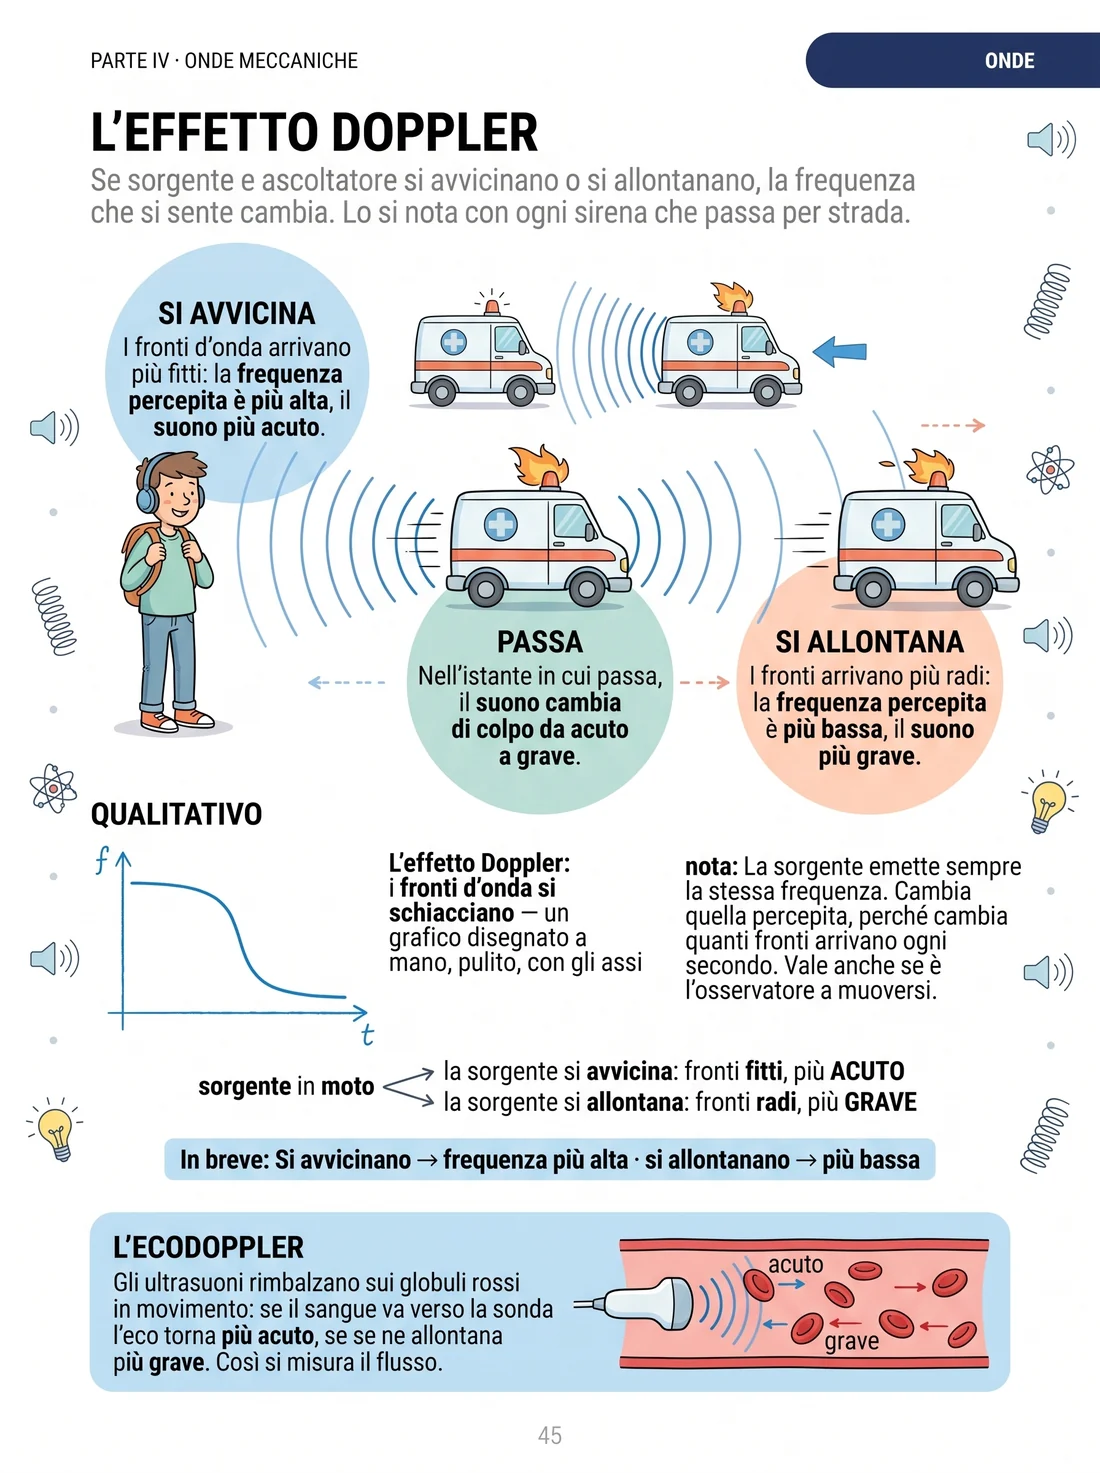
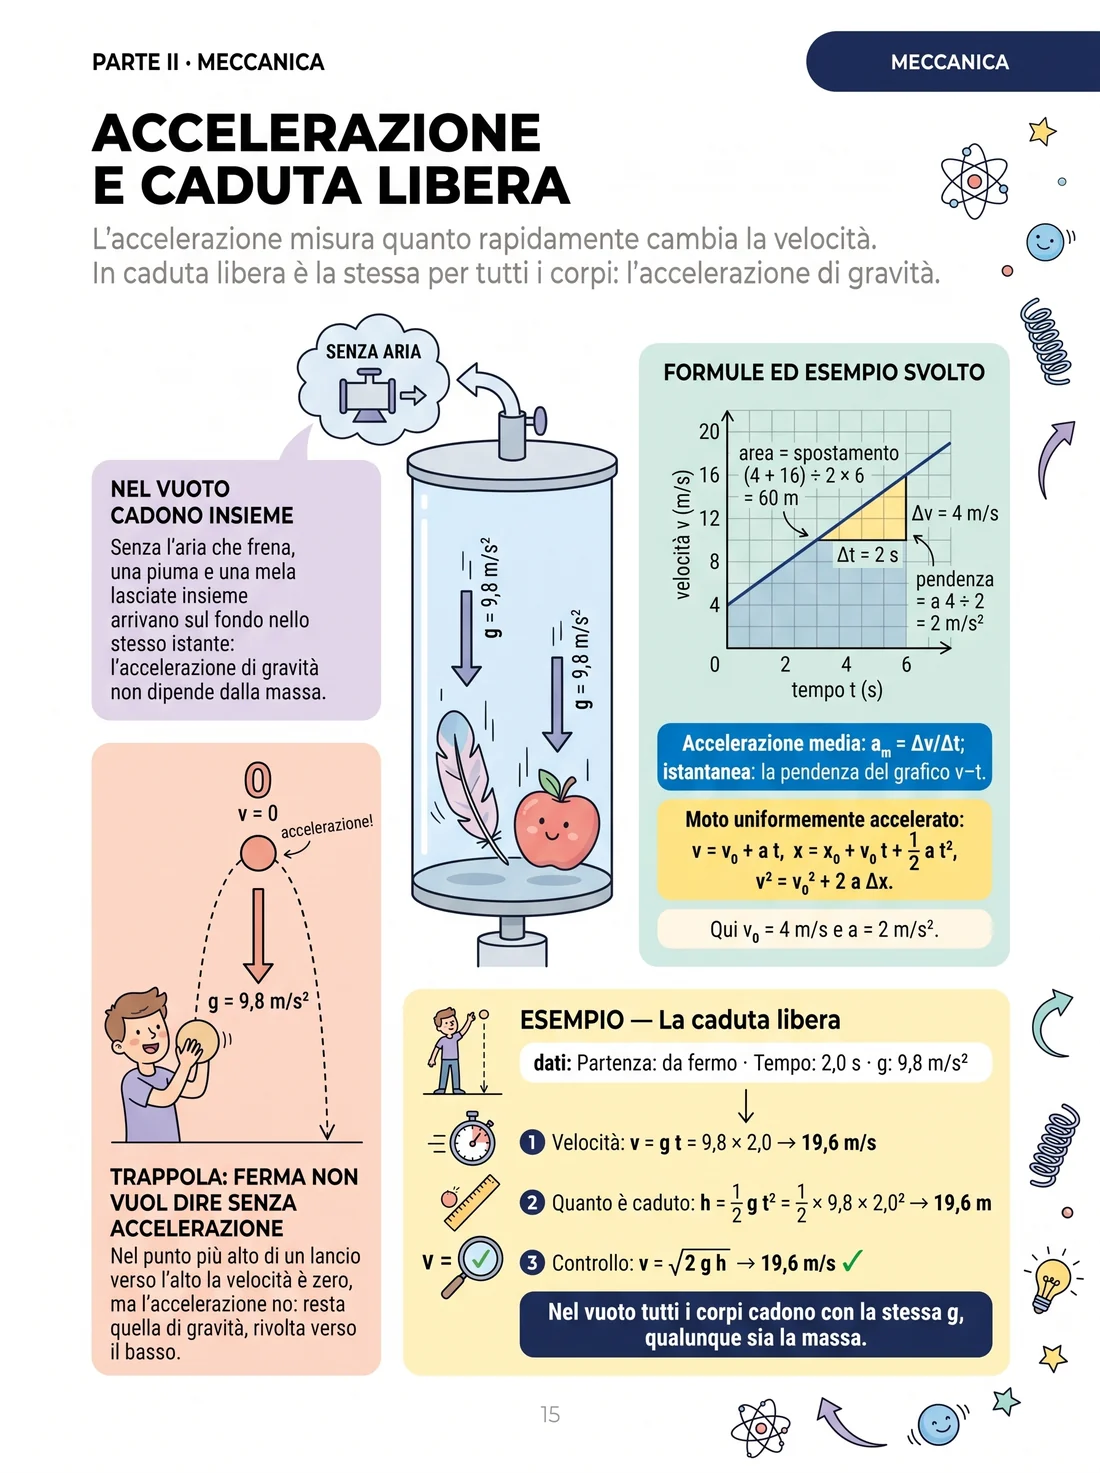
fisica: carosello con caduta libera in apertura al posto del primo principio

diff --git a/fisica.html b/fisica.html
@@ -2181,21 +2181,21 @@
         <button type="button" class="carousel-nav" data-dir="next" data-target="amostras-scroll" aria-label="Anteprima successiva"><svg viewBox="0 0 24 24" fill="none" stroke="currentColor" stroke-width="2.4" stroke-linecap="round" stroke-linejoin="round" aria-hidden="true"><polyline points="9 18 15 12 9 6"></polyline></svg></button>
         <div class="testimonials-scroll" id="amostras-scroll" role="list" data-no-autoplay>
           <article class="testimonial-item amostra-item" role="listitem">
-            <button type="button" class="amostra-btn" data-galleria="fisica" data-galleria-pagina="0" aria-label="Ingrandisci: L'effetto Doppler">
-              <img src="https://czocbnyoenjbpxmcqobn.supabase.co/storage/v1/object/public/algoritmia-img/studiofacile/anteprime/fisica_libro_01.webp?v=ad42e96b" alt="L'effetto Doppler" width="1100" height="1473" loading="lazy" decoding="async">
-              <span class="amostra-cap">L'effetto Doppler</span>
+            <button type="button" class="amostra-btn" data-galleria="fisica" data-galleria-pagina="0" aria-label="Ingrandisci: Accelerazione e caduta libera">
+              <img src="https://czocbnyoenjbpxmcqobn.supabase.co/storage/v1/object/public/algoritmia-img/studiofacile/anteprime/fisica_libro_01.webp?v=82457a60" alt="Accelerazione e caduta libera" width="1100" height="1473" loading="lazy" decoding="async">
+              <span class="amostra-cap">Accelerazione e caduta libera</span>
             </button>
           </article>
           <article class="testimonial-item amostra-item" role="listitem">
-            <button type="button" class="amostra-btn" data-galleria="fisica" data-galleria-pagina="1" aria-label="Ingrandisci: Il primo principio della termodinamica">
-              <img src="https://czocbnyoenjbpxmcqobn.supabase.co/storage/v1/object/public/algoritmia-img/studiofacile/anteprime/fisica_libro_02.webp?v=169305f5" alt="Il primo principio della termodinamica" width="1100" height="1473" loading="lazy" decoding="async">
-              <span class="amostra-cap">Il primo principio della termodinamica</span>
-            </button>
-          </article>
-          <article class="testimonial-item amostra-item" role="listitem">
-            <button type="button" class="amostra-btn" data-galleria="fisica" data-galleria-pagina="2" aria-label="Ingrandisci: Bernoulli: stenosi e aneurisma">
-              <img src="https://czocbnyoenjbpxmcqobn.supabase.co/storage/v1/object/public/algoritmia-img/studiofacile/anteprime/fisica_libro_03.webp?v=5ba19287" alt="Bernoulli: stenosi e aneurisma" width="1100" height="1473" loading="lazy" decoding="async">
+            <button type="button" class="amostra-btn" data-galleria="fisica" data-galleria-pagina="1" aria-label="Ingrandisci: Bernoulli: stenosi e aneurisma">
+              <img src="https://czocbnyoenjbpxmcqobn.supabase.co/storage/v1/object/public/algoritmia-img/studiofacile/anteprime/fisica_libro_02.webp?v=5ba19287" alt="Bernoulli: stenosi e aneurisma" width="1100" height="1473" loading="lazy" decoding="async">
               <span class="amostra-cap">Bernoulli: stenosi e aneurisma</span>
+            </button>
+          </article>
+          <article class="testimonial-item amostra-item" role="listitem">
+            <button type="button" class="amostra-btn" data-galleria="fisica" data-galleria-pagina="2" aria-label="Ingrandisci: L'effetto Doppler">
+              <img src="https://czocbnyoenjbpxmcqobn.supabase.co/storage/v1/object/public/algoritmia-img/studiofacile/anteprime/fisica_libro_03.webp?v=ad42e96b" alt="L'effetto Doppler" width="1100" height="1473" loading="lazy" decoding="async">
+              <span class="amostra-cap">L'effetto Doppler</span>
             </button>
           </article>
           <article class="testimonial-item amostra-item" role="listitem">

diff --git a/galleria.js b/galleria.js
@@ -107,9 +107,9 @@
     fisica: {
       titolo: 'Fisica Illustrata',
       pagine: [
-        ['fisica_libro_01', 'L’effetto Doppler'],
-        ['fisica_libro_02', 'Il primo principio della termodinamica'],
-        ['fisica_libro_03', 'Bernoulli: stenosi e aneurisma'],
+        ['fisica_libro_01', 'Accelerazione e caduta libera'],
+        ['fisica_libro_02', 'Bernoulli: stenosi e aneurisma'],
+        ['fisica_libro_03', 'L’effetto Doppler'],
         ['fisica_libro_04', 'Resistenze in serie e in parallelo'],
         ['fisica_libro_05', 'Archimede e il galleggiamento'],
         ['fisica_libro_06', 'Le leve del corpo umano']
